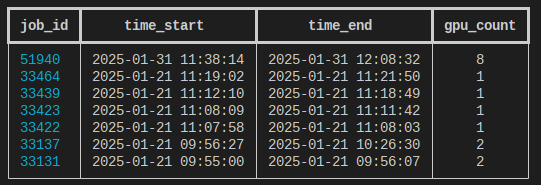
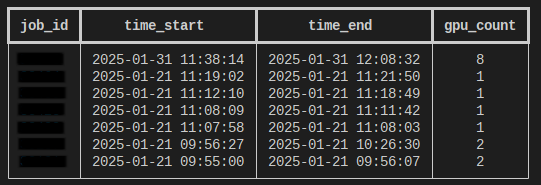
Hide real job IDs on GPU monitoring page
- Modified images to hide real job ID numbers for user privacy

- Replaced any text references to a real job ID with a fake '1234' ID

Resolves issue #127

diff --git a/docs/userguides/gautschi/run_jobs/gpu_usage_monitoring.md b/docs/userguides/gautschi/run_jobs/gpu_usage_monitoring.md
@@ -38,10 +38,10 @@ It should be noted that we collect GPU usage information every 3 - 3.5 hours. If
 
 ## Inspecting a specific job
 
-If you want to view the GPU utilization of a specific job, you can use the ```-j``` or ```--job_id``` flag. For example, to see the utilization of job 32083, you may run the following:
+If you want to view the GPU utilization of a specific job, you can use the ```-j``` or ```--job_id``` flag. For example, to see the utilization of job 1234, you may run the following:
 
 ```bash
-/apps/external/gpu_util/get_gpu_util --job_id 32083
+/apps/external/gpu_util/get_gpu_util --job_id 1234
 ```
 
 This will print a table of the GPU memory and utilization for each GPU that was allocated for the specified job:
@@ -53,7 +53,7 @@ This will print a table of the GPU memory and utilization for each GPU that was 
 It is also possible to plot the GPU utilization and memory usage over time with the ```-p``` or the ```--plot``` flag:
 
 ```bash
-/apps/external/gpu_util/get_gpu_util --job_id 32083 --plot
+/apps/external/gpu_util/get_gpu_util --job_id 1234 --plot
 ```
 
 This will print two graphs. The first will be a 2-minute rolling average of the GPU utilization over time, and the second will be the percentage of memory used over time. Each GPU will be colored differently:
@@ -65,7 +65,7 @@ This will print two graphs. The first will be a 2-minute rolling average of the 
 If you would like to save the raw GPU utilization and memory usage data for your job, you can use the ```-s``` or ```--save``` flag:
 
 ```bash
-/apps/external/gpu_util/get_gpu_util --job_id 32083 --save
+/apps/external/gpu_util/get_gpu_util --job_id 1234 --save
 ```
 
 This will download the GPU data for a specific job as:
